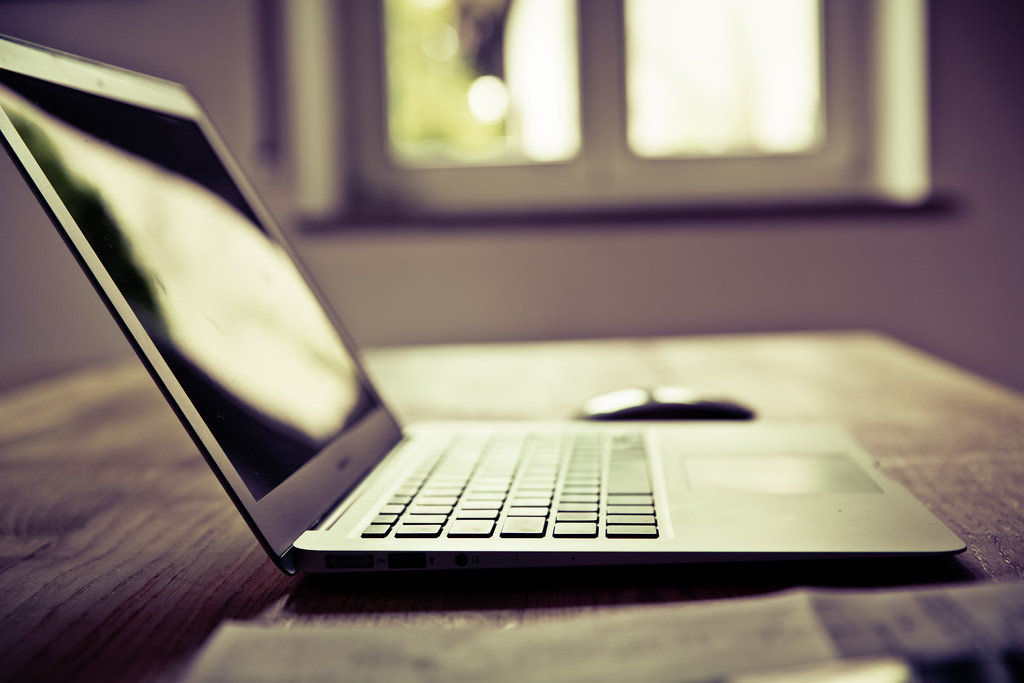
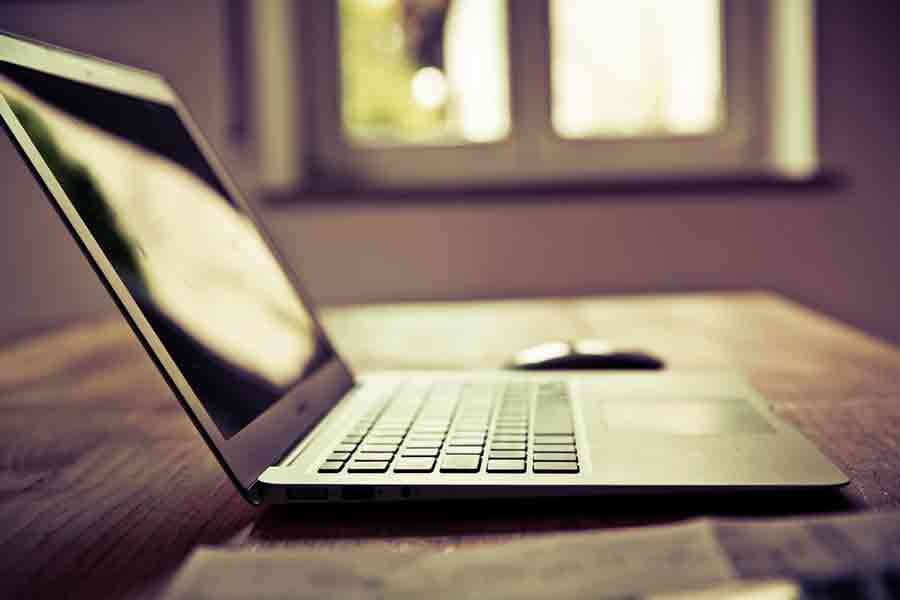
Compressing images

diff --git a/index.html b/index.html
@@ -327,7 +327,7 @@
                                         </div>
                                         <!-- Image-right -->
                                         <div class="col-md-7 col-sm-6 hidden-xs wow fadeInRight" data-wow-duration="2s">
-                                            <img src="build/images/features/product-1.jpg" height="550" width="700" alt="">
+                                            <img src="build/images/features/product.jpg" height="550" width="800" alt="">
                                         </div>
                                     </div>
                                 </div>
@@ -387,7 +387,7 @@
                 <!-- Diabling animation <div class="col-md-7 col-sm-6 hidden-xs wow fadeInRight" data-wow-duration="1s"> -->
 
                                         <div class="col-md-7 col-sm-6 hidden-xs" data-wow-duration="1s">
-                                            <img src="build/images/features/ux.jpg" height="550" width="700" alt="">
+                                            <img src="build/images/features/ux.jpg" height="550" width="800" alt="">
                                         </div>
                                     </div>
                                 </div>
@@ -471,7 +471,7 @@
     <!-- Diabling animation <div class="col-xs-12 col-sm-6 col-sm-pull-6 col-lg-5 col-lg-pull-7 hidden-xs wow fadeInLeft" data-wow-duration="1s"> -->
 
                                         <div class="col-xs-12 col-sm-6 col-sm-pull-6 col-lg-5 col-lg-pull-7 hidden-xs" data-wow-duration="1s">
-                                            <img src="build/images/features/techhiring.jpg" class="img-device" alt="">
+                                            <img src="build/images/features/techhiring.jpg" class="img-device" alt="" height="500" width="640">
                                         </div>
 
                                     </div>   
